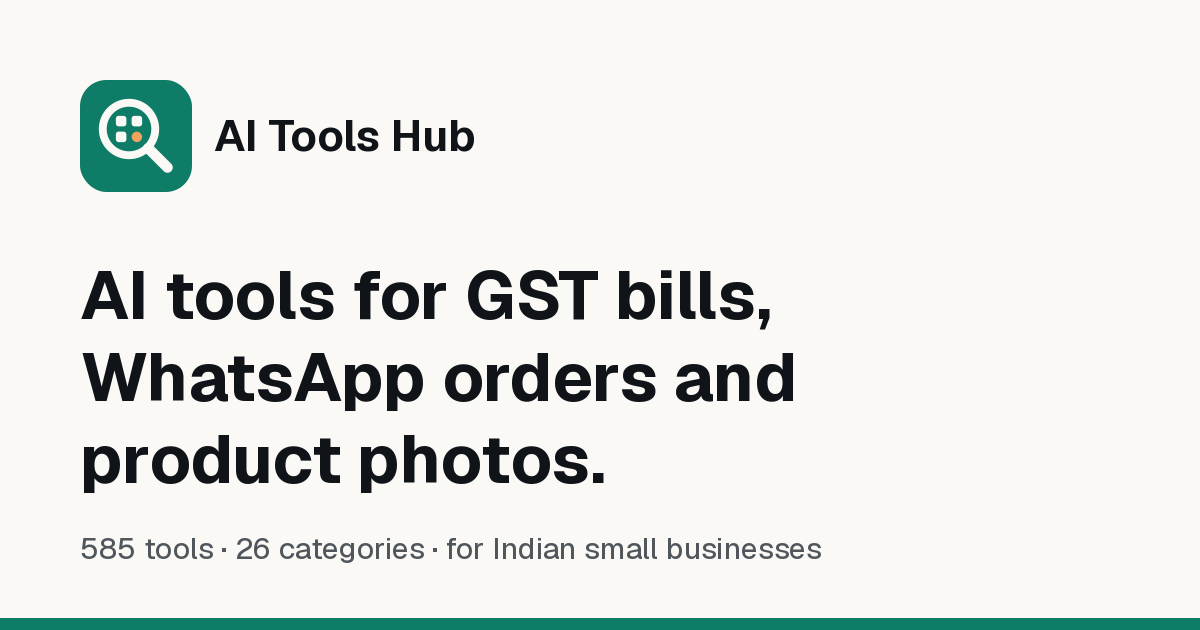
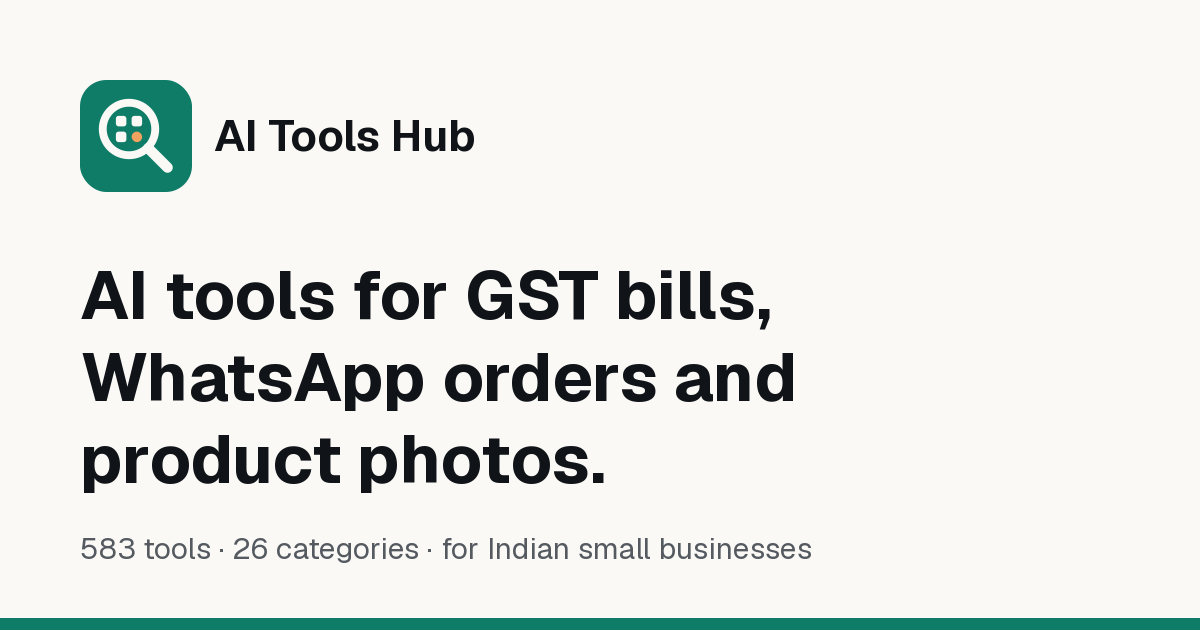
v3.18: motion polish (intro on refresh, card stagger, heart pop, no blur on touch), v3.17 contrast + touch targets, og-image 583, README accent

Changed region(s): [[0.0925, 0.8444, 0.6783, 0.9048]]

diff --git a/ds.css b/ds.css
@@ -28,9 +28,9 @@
   --bg: #FAF9F6; --bg-2: #F3F1EC; --surface: #ffffff; --surface-2: #F3F1EC; --surface-3: #EAE7E0;
   --line: #E6E2D9; --line-2: #D3CEC2;
   --text: #101418; --text-2: #4F565C; --text-3: #5F666C;
-  --accent: #0E7C66; --accent-hover: #0A6352; --accent-soft: #E3F1EC; --accent-line: #B5D9CD; --on-accent: #ffffff;
-  --ok: #0f7a45; --ok-soft: #e6f4ec; --warn: #9a5b00; --warn-soft: #fbf1e1; --danger: #b42318; --danger-soft: #fdecea;
-  --free: #0f7a45; --free-soft: #e6f4ec; --freemium: #0E6A7C; --freemium-soft: #E2EFF2;
+  --accent: #0B735F; --accent-hover: #0A6352; --accent-soft: #E3F1EC; --accent-line: #B5D9CD; --on-accent: #ffffff;
+  --ok: #0d7341; --ok-soft: #e6f4ec; --warn: #8f5400; --warn-soft: #fbf1e1; --danger: #b42318; --danger-soft: #fdecea;
+  --free: #0d7341; --free-soft: #e6f4ec; --freemium: #0E6A7C; --freemium-soft: #E2EFF2;
   --in: #A64B08; --in-soft: #FBEEE3; --in-line: #EBC9AC; --paid: #6b4a00; --paid-soft: #f7efdc;
   --scrim: rgba(16, 20, 24, .42);
   --sh-1: 0 1px 2px rgba(16, 20, 24, .05);
@@ -422,3 +422,36 @@ html:active-view-transition-type(page)::view-transition-new(root) { animation: v
 @keyframes vtOut { to { opacity: 0; transform: perspective(1200px) translateZ(-24px) scale(.985); } }
 @keyframes vtIn { from { opacity: 0; transform: perspective(1200px) rotateX(1.5deg) translateY(10px) scale(1.01); } }
 @media (prefers-reduced-motion: reduce) { @view-transition { navigation: none; } }
+
+/* v3.17 touch targets (UI audit): on touch screens every control is at least 44px tall (40px for chips, tabs and footer links). Desktop sizes unchanged. */
+@media (pointer: coarse) {
+  .btn, .btn--sm { min-height: 44px; }
+  .btn--icon, .btn--icon.btn--sm { width: 44px; min-height: 44px; }
+  .iconbtn { width: 44px; height: 44px; }
+  .tc__foot .visit { min-height: 44px; }
+  .chip, .chips a, .seg button, .switch { min-height: 40px; }
+  .check { min-height: 44px; }
+}
+
+/* ---------- v3.18 motion polish: smoother on phones, intro on refresh, heart pop (transform/opacity only; reduced motion skips all) ---------- */
+@media (pointer: coarse) {
+  /* blur filters are the costliest thing to animate on mid-range Android: drop them on touch screens */
+  .js-words .tw { filter: none; }
+  .dialog { filter: none; }
+  html .hdr { -webkit-backdrop-filter: saturate(160%) blur(12px); backdrop-filter: saturate(160%) blur(12px); }
+}
+@media (prefers-reduced-motion: no-preference) {
+  /* intro: plays on refresh or first visit only (class set in <head>); in-site navigation uses the page transition instead */
+  html.is-intro .hdr { animation: introHdr 520ms var(--ease) both; }
+  html.is-intro main:not(:has(.hero__main)) > :nth-child(-n+4) { animation: introUp 560ms var(--ease) both; }
+  html.is-intro main:not(:has(.hero__main)) > :nth-child(2) { animation-delay: 70ms; }
+  html.is-intro main:not(:has(.hero__main)) > :nth-child(3) { animation-delay: 130ms; }
+  html.is-intro main:not(:has(.hero__main)) > :nth-child(4) { animation-delay: 180ms; }
+  html.is-intro .foot { animation: introFade 700ms var(--ease) 200ms both; }
+  /* saving a tool: the heart pops */
+  .fav-btn.is-pop .i { animation: heartPop 420ms cubic-bezier(.3, 1.6, .5, 1); }
+}
+@keyframes introHdr { from { opacity: 0; transform: translateY(-10px); } }
+@keyframes introUp { from { opacity: 0; transform: translateY(14px); } }
+@keyframes introFade { from { opacity: 0; } }
+@keyframes heartPop { 0% { transform: scale(1); } 35% { transform: scale(1.35); } 60% { transform: scale(.92); } 100% { transform: scale(1); } }

diff --git a/index.html b/index.html
@@ -57,7 +57,8 @@
         {"@type":"Question","name":"Is my data stored?","acceptedAnswer":{"@type":"Answer","text":"Saved tools, compare picks, recently viewed tools and your theme are kept only in this browser (localStorage). Nothing is sent to a server. Suggestions and reports open a prefilled email to aitoolshub.support@gmail.com that you send yourself."}}
       ]}
     </script>
-  </head>
+  <script>/* v3.18 intro on refresh or first visit (not on in-site navigation, which has its own page transition) */(function(d){try{var n=performance.getEntriesByType("navigation")[0],r=document.referrer,x=!r||new URL(r).origin!==location.origin;if((n&&n.type==="reload")||x)d.classList.add("is-intro")}catch(e){}})(document.documentElement)</script>
+</head>
   <body>
     <a class="skip" href="#main">Skip to content</a>
 
@@ -483,7 +484,7 @@
         <div class="foot__base">
           <p>Built for Indian SMBs · © 2026 AI Tools Hub · Links checked 3 Nov 2026</p>
           <p class="credit">Designed &amp; developed by <span class="credit__name">J. Venkata Sai Kumar</span></p>
-          <p class="foot__ver">v3.16 · Updated 4 Nov 2026 · <a href="https://github.com/Saikumar8125/AI-TOOLS-HUB" target="_blank" rel="noopener">Source on GitHub</a> · <a href="#suggest">Suggest a tool</a> · <a href="mailto:aitoolshub.support@gmail.com?subject=Problem%20report%3A%20&amp;body=Page%20or%20tool%3A%0AWhat%20is%20wrong%20(link%20%2F%20pricing%20%2F%20other)%3A%0AWhat%20it%20should%20be%20(with%20official%20source%20link)%3A%0A">Report a problem</a></p>
+          <p class="foot__ver">v3.18 · Updated 5 Nov 2026 · <a href="https://github.com/Saikumar8125/AI-TOOLS-HUB" target="_blank" rel="noopener">Source on GitHub</a> · <a href="#suggest">Suggest a tool</a> · <a href="mailto:aitoolshub.support@gmail.com?subject=Problem%20report%3A%20&amp;body=Page%20or%20tool%3A%0AWhat%20is%20wrong%20(link%20%2F%20pricing%20%2F%20other)%3A%0AWhat%20it%20should%20be%20(with%20official%20source%20link)%3A%0A">Report a problem</a></p>
         </div>
       </div>
     </footer>

diff --git a/home.css b/home.css
@@ -398,8 +398,11 @@ html:not(.js) .tc--sk { display: none; }
 @keyframes heroIn { from { opacity: 0; transform: translateY(10px); } }
 
 /* directory results: quick cross-fade on filter/search change (opacity only, so typing never jumps) */
-#grid.is-swap > * { animation: gridIn 180ms var(--ease) both; }
-@keyframes gridIn { from { opacity: 0; } }
+#grid.is-swap > * { animation: gridIn 240ms var(--ease) both; }
+#grid.is-swap > :nth-child(2) { animation-delay: 20ms; } #grid.is-swap > :nth-child(3) { animation-delay: 40ms; }
+#grid.is-swap > :nth-child(4) { animation-delay: 60ms; } #grid.is-swap > :nth-child(5) { animation-delay: 80ms; }
+#grid.is-swap > :nth-child(6) { animation-delay: 100ms; } #grid.is-swap > :nth-child(n+7) { animation-delay: 120ms; }
+@keyframes gridIn { from { opacity: 0; transform: translateY(6px); } } /* v3.18: cards rise in one after another (transform only, so the layout never jumps while typing) */
 
 /* finder: ranked results reveal top-down */
 #finder-results.is-swap > * { animation: fadeUp var(--d-slow) var(--ease) both; }
@@ -455,3 +458,11 @@ html:not(.js) .tc--sk { display: none; }
 html[data-theme="dark"] .cat__ico { background: linear-gradient(160deg, #1d2a27 0%, var(--accent-soft) 100%); box-shadow: inset 0 1px 0 rgba(255,255,255,.08), 0 3px 0 -1px var(--accent-line); }
 html[data-theme="dark"] .cat__ico .i { filter: none; }
 @media (min-width: 720px) { .bento li.is-lg .cat__ico { width: 44px; height: 44px; border-radius: 12px; } }
+
+/* v3.17 touch targets (UI audit), touch screens only */
+@media (pointer: coarse) {
+  .tabs [role="tab"], .sform__seg label, .finder__eg .chip { min-height: 40px; }
+  .foot__col a, .foot__cats a { min-height: 40px; }
+  .search--xl .btn { min-height: 44px; }
+  .hdr__search { height: 44px; }
+}

diff --git a/d2c.html b/d2c.html
@@ -24,7 +24,7 @@
       /* v3.0: same palette and type as ds.css (light default, deep charcoal dark); --gold now holds the accent */
       :root {
         --bg: #FAF9F6; --surface: #ffffff; --surface-2: #F3F1EC; --line: #E6E2D9; --line-2: #D3CEC2;
-        --text: #101418; --muted: #4F565C; --gold: #0E7C66; --gold-soft: #E3F1EC; --on-gold: #ffffff; --err: #b42318;
+        --text: #101418; --muted: #4F565C; --gold: #0B735F; --gold-soft: #E3F1EC; --on-gold: #ffffff; --err: #b42318;
         --ok: #0f7a45; --ok-soft: #e6f4ec;
         --head: -apple-system, BlinkMacSystemFont, "SF Pro Display", "Geist", system-ui, sans-serif; --body: -apple-system, BlinkMacSystemFont, "SF Pro Text", "Geist", system-ui, sans-serif;
         --r: 12px; --r-l: 16px; --tap: 44px; --g: clamp(16px, 4vw, 32px); --max: 1200px; --ease: cubic-bezier(.23,1,.32,1);
@@ -250,7 +250,8 @@
       }
       .btn-line { min-height: var(--tap); padding: 0 14px; border-radius: 10px; border: 1px solid var(--gold); background: none; color: var(--gold); font-weight: 600; cursor: pointer; }
     </style>
-  </head>
+  <script>/* v3.18 intro on refresh or first visit (not on in-site navigation, which has its own page transition) */(function(d){try{var n=performance.getEntriesByType("navigation")[0],r=document.referrer,x=!r||new URL(r).origin!==location.origin;if((n&&n.type==="reload")||x)d.classList.add("is-intro")}catch(e){}})(document.documentElement)</script>
+</head>
   <body>
     <header class="hdr">
       <div class="wrap">

diff --git a/guide-shopify.html b/guide-shopify.html
@@ -45,6 +45,7 @@
 {"@type":"Question","name":"What are AiSensy's WhatsApp message charges?","acceptedAnswer":{"@type":"Answer","text":"Marketing ₹1.09 and utility/authentication/service ₹0.145 per message, charged separately."}},
 {"@type":"Question","name":"Is there a free GST accounting option?","acceptedAnswer":{"@type":"Answer","text":"Zoho Books has a free plan for businesses under ₹25 lakh revenue, including GST reports and filing."}}]}
 </script>
+<script>/* v3.18 intro on refresh or first visit (not on in-site navigation, which has its own page transition) */(function(d){try{var n=performance.getEntriesByType("navigation")[0],r=document.referrer,x=!r||new URL(r).origin!==location.origin;if((n&&n.type==="reload")||x)d.classList.add("is-intro")}catch(e){}})(document.documentElement)</script>
 </head>
 <body class="sg">
 <a class="skip" href="#main">Skip to content</a>

diff --git a/copyright.html b/copyright.html
@@ -29,6 +29,7 @@
 <link rel="stylesheet" href="/ds.css">
 <link rel="stylesheet" href="/pages.css">
 <script type="application/ld+json">{"@context":"https://schema.org","@type":"WebPage","name":"Copyright & Trademark Policy","url":"https://aitoolshub-in.vercel.app/copyright.html","dateModified":"2026-11-02","isPartOf":{"@type":"WebSite","name":"AI Tools Hub","url":"https://aitoolshub-in.vercel.app/"}}</script>
+<script>/* v3.18 intro on refresh or first visit (not on in-site navigation, which has its own page transition) */(function(d){try{var n=performance.getEntriesByType("navigation")[0],r=document.referrer,x=!r||new URL(r).origin!==location.origin;if((n&&n.type==="reload")||x)d.classList.add("is-intro")}catch(e){}})(document.documentElement)</script>
 </head>
 <body>
 <a class="skip" href="#main">Skip to content</a>

diff --git a/disclaimer.html b/disclaimer.html
@@ -29,6 +29,7 @@
 <link rel="stylesheet" href="/ds.css">
 <link rel="stylesheet" href="/pages.css">
 <script type="application/ld+json">{"@context":"https://schema.org","@type":"WebPage","name":"Third-Party Disclaimer","url":"https://aitoolshub-in.vercel.app/disclaimer.html","dateModified":"2026-11-02","isPartOf":{"@type":"WebSite","name":"AI Tools Hub","url":"https://aitoolshub-in.vercel.app/"}}</script>
+<script>/* v3.18 intro on refresh or first visit (not on in-site navigation, which has its own page transition) */(function(d){try{var n=performance.getEntriesByType("navigation")[0],r=document.referrer,x=!r||new URL(r).origin!==location.origin;if((n&&n.type==="reload")||x)d.classList.add("is-intro")}catch(e){}})(document.documentElement)</script>
 </head>
 <body>
 <a class="skip" href="#main">Skip to content</a>

diff --git a/terms.html b/terms.html
@@ -29,6 +29,7 @@
 <link rel="stylesheet" href="/ds.css">
 <link rel="stylesheet" href="/pages.css">
 <script type="application/ld+json">{"@context":"https://schema.org","@type":"WebPage","name":"Terms & Conditions","url":"https://aitoolshub-in.vercel.app/terms.html","dateModified":"2026-11-02","isPartOf":{"@type":"WebSite","name":"AI Tools Hub","url":"https://aitoolshub-in.vercel.app/"}}</script>
+<script>/* v3.18 intro on refresh or first visit (not on in-site navigation, which has its own page transition) */(function(d){try{var n=performance.getEntriesByType("navigation")[0],r=document.referrer,x=!r||new URL(r).origin!==location.origin;if((n&&n.type==="reload")||x)d.classList.add("is-intro")}catch(e){}})(document.documentElement)</script>
 </head>
 <body>
 <a class="skip" href="#main">Skip to content</a>

diff --git a/privacy.html b/privacy.html
@@ -29,6 +29,7 @@
 <link rel="stylesheet" href="/ds.css">
 <link rel="stylesheet" href="/pages.css">
 <script type="application/ld+json">{"@context":"https://schema.org","@type":"WebPage","name":"Privacy Policy","url":"https://aitoolshub-in.vercel.app/privacy.html","dateModified":"2026-11-02","isPartOf":{"@type":"WebSite","name":"AI Tools Hub","url":"https://aitoolshub-in.vercel.app/"}}</script>
+<script>/* v3.18 intro on refresh or first visit (not on in-site navigation, which has its own page transition) */(function(d){try{var n=performance.getEntriesByType("navigation")[0],r=document.referrer,x=!r||new URL(r).origin!==location.origin;if((n&&n.type==="reload")||x)d.classList.add("is-intro")}catch(e){}})(document.documentElement)</script>
 </head>
 <body>
 <a class="skip" href="#main">Skip to content</a>

diff --git a/cookies.html b/cookies.html
@@ -29,6 +29,7 @@
 <link rel="stylesheet" href="/ds.css">
 <link rel="stylesheet" href="/pages.css">
 <script type="application/ld+json">{"@context":"https://schema.org","@type":"WebPage","name":"Cookie Policy","url":"https://aitoolshub-in.vercel.app/cookies.html","dateModified":"2026-11-02","isPartOf":{"@type":"WebSite","name":"AI Tools Hub","url":"https://aitoolshub-in.vercel.app/"}}</script>
+<script>/* v3.18 intro on refresh or first visit (not on in-site navigation, which has its own page transition) */(function(d){try{var n=performance.getEntriesByType("navigation")[0],r=document.referrer,x=!r||new URL(r).origin!==location.origin;if((n&&n.type==="reload")||x)d.classList.add("is-intro")}catch(e){}})(document.documentElement)</script>
 </head>
 <body>
 <a class="skip" href="#main">Skip to content</a>

diff --git a/build.js b/build.js
@@ -118,6 +118,7 @@ ${THEME_INIT}
 <link rel="stylesheet" href="/ds.css">
 <link rel="stylesheet" href="/pages.css">
 ${ld}
+<script>/* v3.18 intro on refresh or first visit (not on in-site navigation, which has its own page transition) */(function(d){try{var n=performance.getEntriesByType("navigation")[0],r=document.referrer,x=!r||new URL(r).origin!==location.origin;if((n&&n.type==="reload")||x)d.classList.add("is-intro")}catch(e){}})(document.documentElement)</script>
 </head>
 <body${o.bodyClass ? ` class="${o.bodyClass}"` : ""}${o.tool ? ` data-tool="${esc(o.tool)}"` : ""}>
 <a class="skip" href="#main">Skip to content</a>

diff --git a/404.html b/404.html
@@ -14,6 +14,7 @@
 <link rel="preload" href="/geist.woff2" as="font" type="font/woff2" crossorigin>
 <link rel="stylesheet" href="/ds.css">
 <link rel="stylesheet" href="/pages.css">
+<script>/* v3.18 intro on refresh or first visit (not on in-site navigation, which has its own page transition) */(function(d){try{var n=performance.getEntriesByType("navigation")[0],r=document.referrer,x=!r||new URL(r).origin!==location.origin;if((n&&n.type==="reload")||x)d.classList.add("is-intro")}catch(e){}})(document.documentElement)</script>
 </head>
 <body>
 <a class="skip" href="#main">Skip to content</a>
